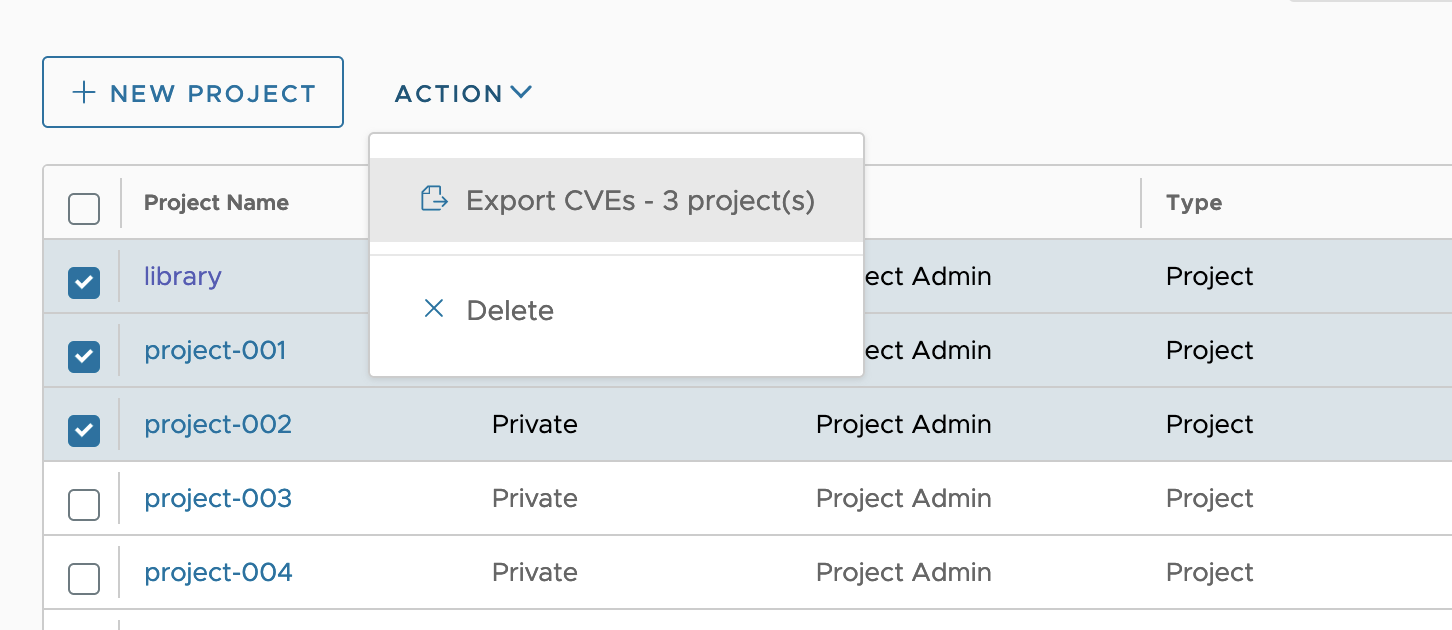
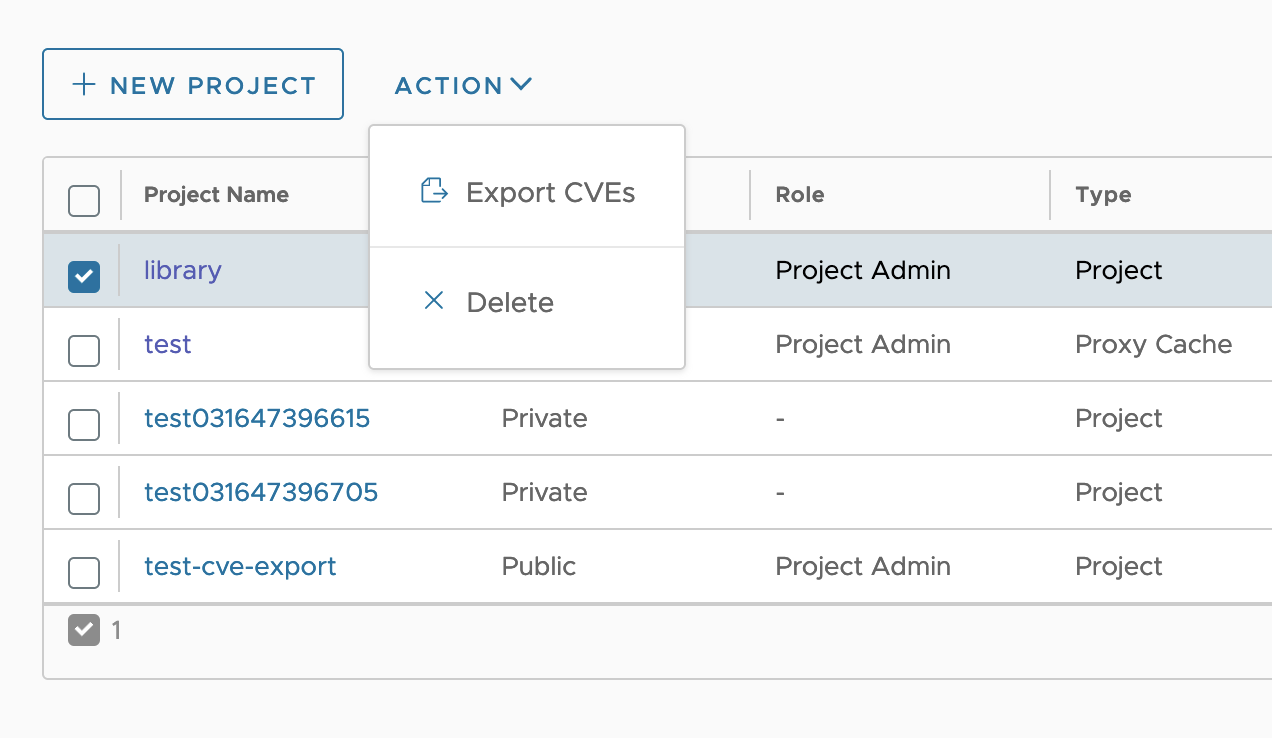
updates from review

diff --git a/docs/administration/vulnerability-scanning/scan-individual-artifact.md b/docs/administration/vulnerability-scanning/scan-individual-artifact.md
@@ -72,11 +72,10 @@ When an OCI image index is successfully scanned, the summary of the vulnerabilit
 
 ## Export Vulnerability Scans
 
-As a project administrator, you are able to export vulnerability scan results of one or more of your projects as CVS and download it from your Harbor instance.
+As a project administrator, maintainer, or developer you are able to export vulnerability scan results from your projects as a CVS and download it from your Harbor instance. Note that you can only export vulnerability data from one project at a time.
 
-1. Log in to the Harbor interface with an account that has at least project administrator privileges.
+1. Log in to the Harbor interface.
 1. Go to **Projects** and select a project.
-1. Select the checkbox for the projects you would like to export.
 1. Select **Action** and then **Export CVE(s)**.
 
   ![Export CVE](../../../img/export-vulnerabilities.png)
@@ -90,9 +89,9 @@ As a project administrator, you are able to export vulnerability scan results of
 
     ![Export CVE filter options](../../../img/filter-export-vulnerabilities.png)
 
-1. Click **Export**. Harbor will begin creating the CVS file with your exported CVE details. The generated CVE file will be named `csv_file_` and the current date and time formatted as YYYYMMDDHHMM. For example, `csv_file_202207281130.csv` was created on 07/28/2022 at 11:30.
+1. Click **Export**. Harbor will begin creating the CVS file with your exported CVE details. The generated CVE file will be named `csv_file_` and the current date and time formatted as yyyyMMddHHmmss. For example, `csv_file_20220804123037.csv` was created on 08/04/2022 at 12:30:37.
 
 1. Download the CVE file from the Event Log window. Expand the Event Log window by clicking on **Event Log** from the Harbor interface.
-1. Click the download icon next to the CSV file you want to download.  
+1. Click the download icon next to the CSV file you want to download. Once you download the file, Harbor will delete it.
 
-![Download CVS file of vulnerability data](../../../img/download-export-vulnerabilities.png)
+![Download CSV file of vulnerability data](../../../img/download-export-vulnerabilities.png)

diff --git a/docs/administration/managing-users/user-permissions-by-role.md b/docs/administration/managing-users/user-permissions-by-role.md
@@ -35,6 +35,9 @@ The following table depicts the various user permission levels in a project.
 | Add scanners to Harbor                  |               |       |           |        |               |
 | Edit scanners in projects               |               |       |           |        | ✓             |
 | See a list of image vulnerabilities     | ✓             | ✓     | ✓         | ✓      | ✓             |
+| Create list of project vulnerabilities  |               |       | ✓         | ✓      | ✓             |
+| Read list of project vulnerabilities  |               |       | ✓         | ✓      | ✓             |
+| Export list of project vulnerabilities  |               |       | ✓         | ✓      | ✓             |
 | See image build history                 | ✓             | ✓     | ✓         | ✓      | ✓             |
 | Add/Remove labels of image              |               |       | ✓         | ✓      | ✓             |
 | See a list of helm charts               | ✓             | ✓     | ✓         | ✓      | ✓             |
